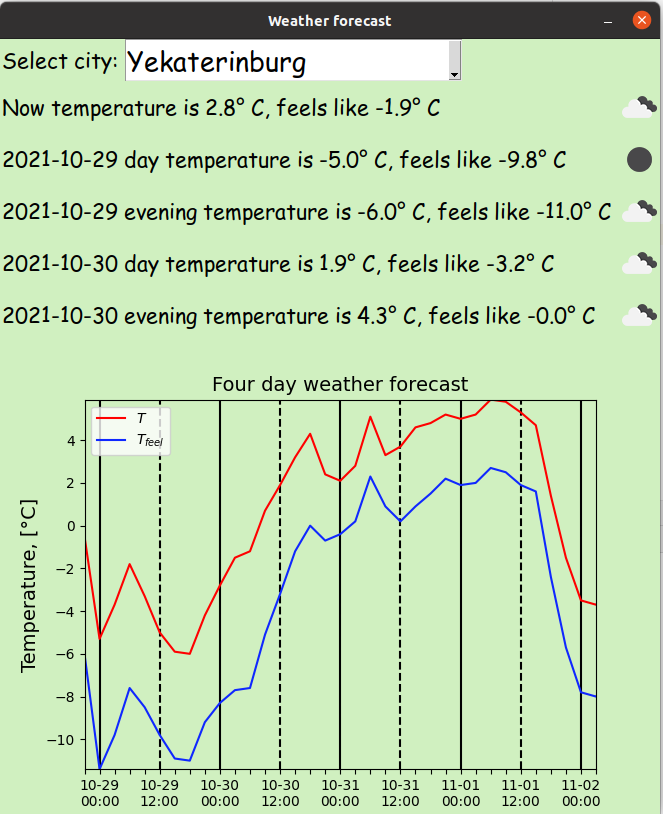
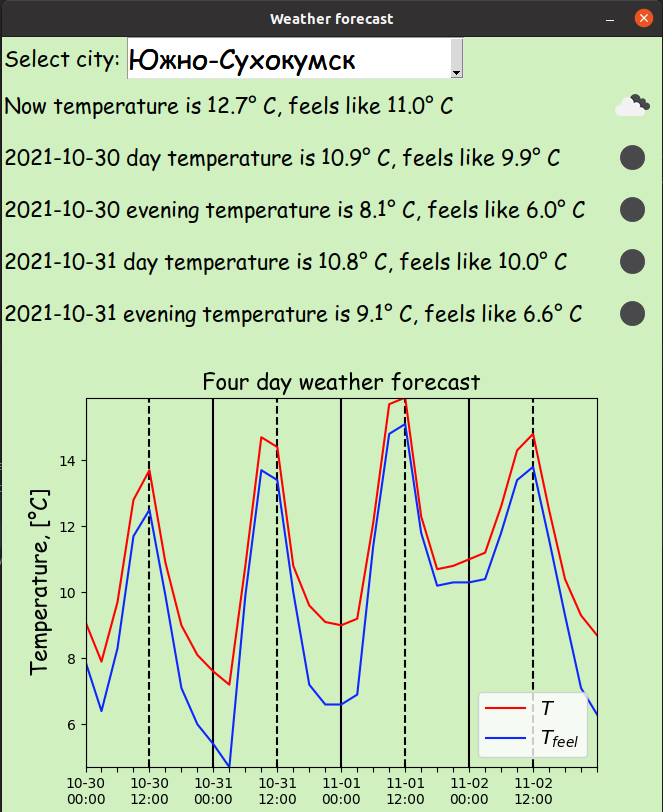
New pic

diff --git a/Weather_API_GUI/Weather_v5.py b/Weather_API_GUI/Weather_v5.py
@@ -356,8 +356,8 @@ class App:
         ax.xaxis.set_major_formatter(formatter)
         ax.set_xlim(xmin, xmax)
         ax.set_ylim(ymin, ymax)
-        ax.set_title("Four day weather forecast", fontsize=14, color='black', font=self.font)
-        ax.set_ylabel("Temperature, [°C]", fontsize=14, color='black')
+        ax.set_title("Four day weather forecast", color='black', font=self.font, size=self.font_size)
+        ax.set_ylabel("Temperature, [°C]", font=self.font, size=self.font_size, color='black')
 
         for i in np.arange(self.start_time,self.end_time,8):  # 38
             ax.vlines(i, ymin, ymax, color='black')
@@ -365,7 +365,7 @@ class App:
             ax.vlines(i, ymin, ymax, color='black', linestyles='--')
         ax.plot(xdata, self.all_temp, label = '$T$', color = 'red')
         ax.plot(xdata, self.all_real_temp, label ='$T_{feel}$', color = '#0F27FF')
-        plt.legend()
+        plt.legend(fontsize=14)
         plt.savefig('plt.png')
         plt.close()
 
